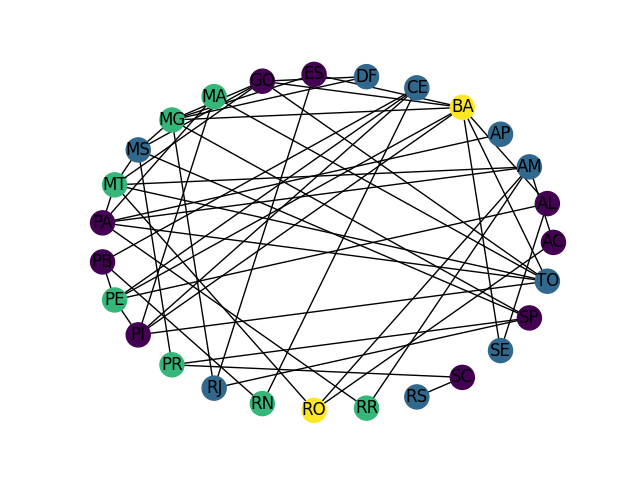
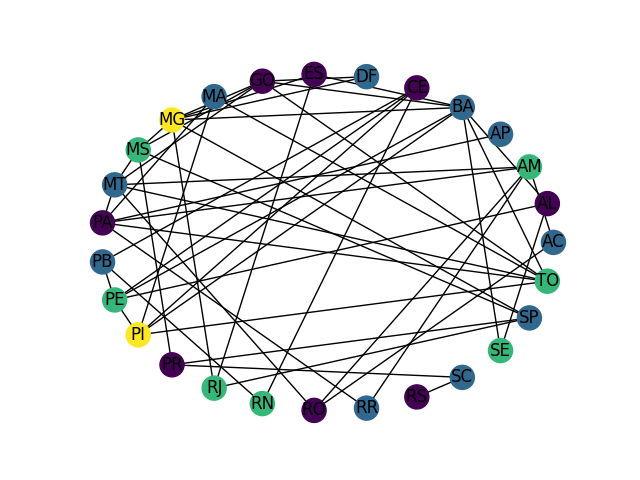
geração de animações

diff --git a/exercicios/exercicio_containers.py b/exercicios/exercicio_containers.py
@@ -1,13 +1,14 @@
 import numpy as np
 import pandas as pd
-from funcoes_coloracao import colorir_grafo_greedy,graph_to_png
+from funcoes_coloracao import colorir_grafo_greedy,graph_to_png,animar_matriz_media_cumulativa,gerar_dicionarios
 # há conflito
 
-ind_containers = np.array(['A', 'B', 'C', 'D', 'E', 'F','G'])
+ind_containers = np.array(['A', 'B', 'C', 'D', 'E', 'F', 'G'])
 qtd = ind_containers.shape[0]
 matriz_adjacencia_containers = np.zeros(shape=(qtd, qtd), dtype=int)
-dict_ind_containers = dict([(letra,indice) for indice,letra in enumerate(ind_containers)])
-dict_adjacencia = {'A': ['B','C','G','F','D'],
+dict_ind_containers = dict([(letra, indice)
+                            for indice, letra in enumerate(ind_containers)])
+dict_adjacencia = {'A': ['B', 'C', 'G', 'F', 'D'],
                    'E': ['D', 'F']}
 
 for c1, lista_c2 in dict_adjacencia.items():
@@ -15,22 +16,39 @@ for c1, lista_c2 in dict_adjacencia.items():
     i = dict_ind_containers[c1]
     lista_j = [dict_ind_containers[c2] for c2 in lista_c2]
     for j in lista_j:
-        matriz_adjacencia_containers[i,j] = 1
-        
+        matriz_adjacencia_containers[i, j] = 1
+
 matriz_adjacencia_containers += matriz_adjacencia_containers.T
-matriz_adjacencia_containers = pd.DataFrame(matriz_adjacencia_containers, index = ind_containers, columns = ind_containers)
+matriz_adjacencia_containers = pd.DataFrame(
+    matriz_adjacencia_containers, index=ind_containers, columns=ind_containers)
 
 print(matriz_adjacencia_containers)
 if __name__ == "__main__":
+    import random
+    random.seed()
     num_simulacoes = 20
     dict_container = dict()
-    graph_to_png(matriz_adjacencia_containers.values,'grafo_containers.png',lista_labels = ind_containers)
-    
-    for i,container in enumerate(ind_containers):
-        lista = []
-        for _ in range(num_simulacoes):
-            lista.append(max(colorir_grafo_greedy(matriz_adjacencia_containers.values, i)))
-        dict_container[container] = np.mean(lista)
+    graph_to_png(matriz_adjacencia_containers.values,
+                 'exercicios/grafo_containers.png',
+                 lista_labels=ind_containers)
 
-    import pprint
-    pprint.pprint(dict_container)
+    # for i, container in enumerate(ind_containers):
+    #     lista = []
+    #     for _ in range(num_simulacoes):
+    #         lista.append(max(colorir_grafo_greedy(
+    #             matriz_adjacencia_containers.values, i)))
+    #     dict_container[container] = np.mean(lista)
+
+    # import pprint
+    # pprint.pprint(dict_container)
+    num_simulacoes =  200
+    
+    matriz_adjacencia = matriz_adjacencia_containers.values
+
+    dict_max, dict_min, dict_media, dict_media_acumulativa = gerar_dicionarios(matriz_adjacencia, num_simulacoes, ind_containers)
+    
+    matriz_media_acumulativa = pd.DataFrame(dict_media_acumulativa).transpose().values
+    
+    animar_matriz_media_cumulativa(matriz_media_acumulativa[:,:200],'exercicios/gif_containers.gif',40,ind_containers)
+
+    # animar_matriz_media_cumulativa(matriz_media_acumulativa[0,:200].reshape(1,-1),'exercicios/gif_AC.gif',40,['AC'])

diff --git a/exercicios/funcoes_coloracao.py b/exercicios/funcoes_coloracao.py
@@ -1,6 +1,7 @@
 
 def random_colors(n):
     import random
+    random.seed()
     saida = []
     for i in range(n):
         r = random.randint(0, 255)
@@ -14,6 +15,7 @@ def random_colors(n):
 def colorir_grafo_greedy(matriz_adjacencia, ponto_partida):
     import numpy as np
     import random
+    random.seed()
     lista_cores_utilizadas = np.zeros_like(range(matriz_adjacencia.shape[0]))
 
     def colorir(ponto_partida):
@@ -45,6 +47,7 @@ def colorir_grafo_greedy(matriz_adjacencia, ponto_partida):
 
 def graph_to_png(matriz_adjacencia, nome_arquivo, lista_labels=[]):
     import random
+    random.seed()
     import networkx as nx
     import matplotlib
     matplotlib.use("Agg")
@@ -75,3 +78,56 @@ def graph_to_png(matriz_adjacencia, nome_arquivo, lista_labels=[]):
     f.savefig(nome_arquivo)
 
     print()
+
+
+def animar_matriz_media_cumulativa(matriz,titulo,fps,labels):
+    from matplotlib import pyplot as plt
+    from matplotlib.colors import get_named_colors_mapping
+    from celluloid import Camera
+    import numpy as np
+    import random
+    
+    # plt.figure(figsize=(16,10))
+    fig, ax = plt.subplots()
+    
+    minimo = np.min(matriz) 
+    maximo = np.max(matriz)
+    
+    ax.set_ylim(minimo* 0.8, maximo * 1.2)
+    ax.set_xlim(0, matriz.shape[1])
+    
+    camera = Camera(fig)
+
+    cor = random.choices(list(get_named_colors_mapping().keys()),k=len(labels))
+    for i in range(matriz.shape[1]):
+        if maximo > minimo:
+            ax.axhline(maximo, label='Valor máximo', c='gray',ls=":")
+            ax.axhline(minimo, label='Valor mínimo', c='gray',ls=":")
+        # plt.legend()
+        for j,linha in enumerate(matriz):
+            label = labels[j]
+            
+            ax.plot(list(range(i+1)),linha[:i+1], label=label,c=cor[j])
+            # plt.legend(loc='upper left')
+        camera.snap()
+
+    animation = camera.animate()
+    animation.save(titulo, writer='PillowWriter', fps=fps)
+
+
+def gerar_dicionarios(matriz_adjacencia,num_simulacoes, labels):
+    import numpy as np
+    dict_no = dict([(label,[]) for label in labels])
+    for _ in range(num_simulacoes):
+        for i,label in enumerate(labels):
+            num_cores = max(colorir_grafo_greedy(matriz_adjacencia, i))
+            dict_no[label].append(num_cores)
+    
+    dict_max = dict([(label, np.max(lista)) for label, lista in dict_no.items()])
+    dict_min = dict([(label, np.min(lista)) for label, lista in dict_no.items()])
+    dict_media = dict([(label, np.mean(lista)) for label, lista in dict_no.items()])
+    dict_media_acumulativa = dict([(label, [np.mean(lista[:i+1]) for i,_ in enumerate(lista)]) for label, lista in dict_no.items()])
+    return dict_max, dict_min, dict_media, dict_media_acumulativa
+
+
+

diff --git a/exercicios/exercicio_cachorros.py b/exercicios/exercicio_cachorros.py
@@ -1,6 +1,6 @@
 import numpy as np
 import pandas as pd
-from funcoes_coloracao import colorir_grafo_greedy,graph_to_png
+from funcoes_coloracao import colorir_grafo_greedy,graph_to_png,animar_matriz_media_cumulativa,gerar_dicionarios
 import networkx as nx
 import matplotlib
 # há conflito
@@ -8,8 +8,10 @@ import matplotlib
 ind_cachorros = np.array(['A', 'B', 'C', 'D', 'E', 'F'])
 qtd = ind_cachorros.shape[0]
 matriz_adjacencia_cachorros = np.zeros(shape=(qtd, qtd), dtype=int)
-dict_cachorro_ind = dict([(letra,indice) for indice,letra in enumerate(ind_cachorros)])
-dict_ind_cachorro = dict([(indice, letra) for indice,letra in enumerate(ind_cachorros)])
+dict_cachorro_ind = dict([(letra, indice)
+                          for indice, letra in enumerate(ind_cachorros)])
+dict_ind_cachorro = dict([(indice, letra)
+                          for indice, letra in enumerate(ind_cachorros)])
 dict_adjacencia = {'A': ['C', 'D', 'E'],
                    'B': ['F'],
                    'E': ['D', 'F']}
@@ -20,29 +22,29 @@ for c1, lista_c2 in dict_adjacencia.items():
     i = dict_cachorro_ind[c1]
     lista_j = [dict_cachorro_ind[c2] for c2 in lista_c2]
     for j in lista_j:
-        matriz_adjacencia_cachorros[i,j] = 1
+        matriz_adjacencia_cachorros[i, j] = 1
 
 
 matriz_adjacencia_cachorros += matriz_adjacencia_cachorros.T
 
-matriz_adjacencia_cachorros = pd.DataFrame(matriz_adjacencia_cachorros, index = ind_cachorros, columns = ind_cachorros)
-
-# print(matriz_adjacencia_cachorros)
+matriz_adjacencia_cachorros = pd.DataFrame(
+    matriz_adjacencia_cachorros, index=ind_cachorros, columns=ind_cachorros)
 
 
 if __name__ == "__main__":
+    import random
+    random.seed()
+
+    graph_to_png(matriz_adjacencia_cachorros.values,
+                 'exercicios/grafo_cachorro.png',
+                 lista_labels=ind_cachorros)
+
+    num_simulacoes = 100
+
+    matriz_adjacencia = matriz_adjacencia_cachorros.values
+
+    dict_max, dict_min, dict_media, dict_media_acumulativa = gerar_dicionarios(matriz_adjacencia, num_simulacoes, ind_cachorros)
     
-
-    graph_to_png(matriz_adjacencia_cachorros.values,'grafo_cachorro.png',lista_labels = ind_cachorros)
+    matriz_media_acumulativa = pd.DataFrame(dict_media_acumulativa).transpose().values
     
-    num_simulacoes = 2000
-    dict_cachorro = dict()
-
-    for i,cachorro in enumerate(ind_cachorros):
-        lista = []
-        for _ in range(num_simulacoes):
-            lista.append(max(colorir_grafo_greedy(matriz_adjacencia_cachorros.values, i)))
-        dict_cachorro[cachorro] = np.mean(lista)
-
-    import pprint
-    pprint.pprint(dict_cachorro)
+    animar_matriz_media_cumulativa(matriz_media_acumulativa,'exercicios/gif_cachorros.gif',40,ind_cachorros)

diff --git a/exercicios/exercicio_peixes.py b/exercicios/exercicio_peixes.py
@@ -1,5 +1,5 @@
 import numpy as np
-from funcoes_coloracao import colorir_grafo_greedy, graph_to_png
+from funcoes_coloracao import colorir_grafo_greedy,graph_to_png,animar_matriz_media_cumulativa,gerar_dicionarios
 # há conflito
 matriz_adjacencia_peixes = np.array([[0, 1, 1, 1, 1, 1, 1],
                                      [1, 0, 0, 0, 0, 1, 1],
@@ -10,16 +10,27 @@ matriz_adjacencia_peixes = np.array([[0, 1, 1, 1, 1, 1, 1],
                                      [1, 1, 0, 1, 0, 0, 0]])
 
 if __name__ == "__main__":
+    import pandas as pd
     num_simulacoes = 200
     dict_peixe = dict()
     graph_to_png(matriz_adjacencia_peixes,
-                 'grafo_peixes.png')
-    for peixe in range(matriz_adjacencia_peixes.shape[0]):
-        print(peixe)
-        lista = []
-        for _ in range(num_simulacoes):
-            lista.append(max(colorir_grafo_greedy(matriz_adjacencia_peixes, peixe)))
-        dict_peixe[peixe] = np.mean(lista)
+                 'exercicios/grafo_peixes.png')
+    # for peixe in range(matriz_adjacencia_peixes.shape[0]):
+    #     print(peixe)
+    #     lista = []
+    #     for _ in range(num_simulacoes):
+    #         lista.append(max(colorir_grafo_greedy(matriz_adjacencia_peixes, peixe)))
+    #     dict_peixe[peixe] = np.mean(lista)
+    
+    num_simulacoes = 100
 
-    import pprint
-    pprint.pprint(dict_peixe)
+    matriz_adjacencia = matriz_adjacencia_peixes
+
+    labels = list(range(matriz_adjacencia.shape[0]))
+
+    dict_max, dict_min, dict_media, dict_media_acumulativa = gerar_dicionarios(matriz_adjacencia, num_simulacoes, labels)
+    
+    # a variação ocorre apenas 
+    matriz_media_acumulativa = pd.DataFrame(dict_media_acumulativa).transpose().values
+    
+    animar_matriz_media_cumulativa(matriz_media_acumulativa,'exercicios/gif_peixes.gif',40,labels)

diff --git a/exercicios/exercicio_brasil.py b/exercicios/exercicio_brasil.py
@@ -1,6 +1,6 @@
 import numpy as np
 import pandas as pd
-from funcoes_coloracao import colorir_grafo_greedy,graph_to_png
+from funcoes_coloracao import colorir_grafo_greedy,graph_to_png,animar_matriz_media_cumulativa,gerar_dicionarios
 
 estados = np.array(['AC', 'AL', 'AM', 'AP', 'BA', 'CE', 'DF', 'ES', 'GO', 'MA', 'MG', 'MS', 'MT',
            'PA', 'PB', 'PE', 'PI', 'PR', 'RJ', 'RN', 'RO', 'RR', 'RS', 'SC', 'SE', 'SP', 'TO'])
@@ -53,16 +53,17 @@ m_aux = matriz_adjacencia
 p = 1
 
 if __name__ == "__main__":
+    import random
+    random.seed()
     graph_to_png(matriz_adjacencia.values,
-                 'grafo_Brasil.png',
+                 'exercicios/grafo_Brasil.png',
                   estados)
-    num_simulacoes =  200   
-    dict_no = dict()
-    for i,estado in enumerate(estados):
-        lista = []
-        for _ in range(num_simulacoes):
-            lista.append(max(colorir_grafo_greedy(matriz_adjacencia.values, i)))
-        dict_no[estado] = np.mean(lista)
+    num_simulacoes =  200
 
-    import pprint
-    pprint.pprint(dict_no)
+    dict_max, dict_min, dict_media, dict_media_acumulativa = gerar_dicionarios(matriz_adjacencia.values, num_simulacoes, estados)
+    
+    matriz_media_acumulativa = pd.DataFrame(dict_media_acumulativa).transpose().values
+    
+    animar_matriz_media_cumulativa(matriz_media_acumulativa[:,:200],'exercicios/gif_Brasil.gif',40,estados)
+
+    animar_matriz_media_cumulativa(matriz_media_acumulativa[0,:200].reshape(1,-1),'exercicios/gif_AC.gif',40,['AC'])
